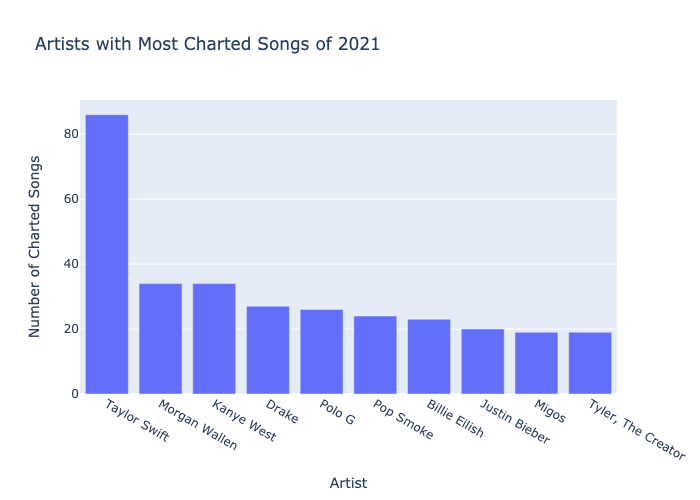
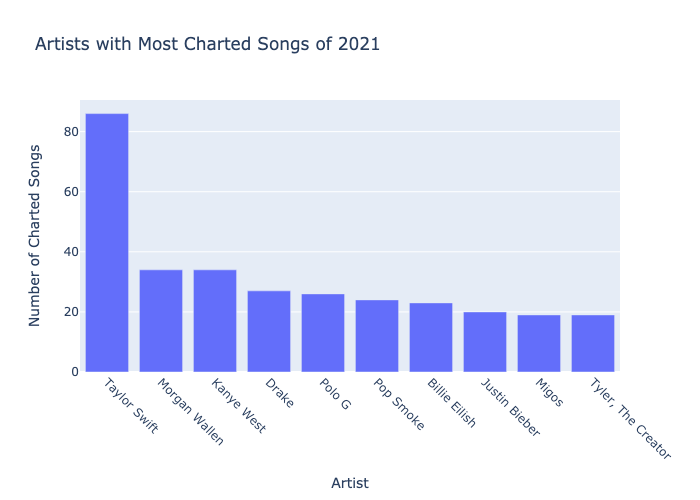
Update project

diff --git a/templates/index.html b/templates/index.html
@@ -18,7 +18,7 @@
             <h1 style="color: #ffffff">Spotify Songs Analysis</h1>
             <br>
             <nav class="navbar navbar-expand-lg navbar-light" style="background-color: #1db954">
-                <a class="navbar-brand" style="color: #ffffff">Sections of Project:</a>
+                <a class="navbar-brand" style="color: #ffffff">Menu (Project Sections):</a>
                 <button class="navbar-toggler" type="button" data-toggle="collapse" data-target="#navbarNavAltMarkup" aria-controls="navbarNavAltMarkup" aria-expanded="false" aria-label="Toggle navigation">
                   <span class="navbar-toggler-icon"></span>
                 </button>
@@ -36,7 +36,7 @@
 
     <div class="container" id="background">
         <h3><u>Project Background</u></h3>
-        <p>Spotify provides a Top 200s Chart for various countries on a daily basis, based on users' streams. This analysis focuses on songs from the <b>United States</b> that have ranked in the Top 200s chart, since January 2021 through November 12, 2021.</p>
+        <p>Spotify provides a Top 200s Chart for various countries on a daily basis, based on users' streams. This analysis focuses on songs from the <b>United States</b> that have ranked in the Top 200s chart, since <b>January 2021 through November 17, 2021</b>.</p>
         <p>Additional information regarding various song features are also available. Some of the features which have been included in this analysis are as follows:</p> 
             <li><b>Acousticness:</b> A confidence measure from 0.0-1.0 of whether a track is acoustic, with 1.0 representing the highest confidence</li>
             <li><b>Danceability:</b> A measure of how suitable a track is for dancing on a scale of 0.0-1.0, with 1.0 representing the most danceable</li>
@@ -49,7 +49,9 @@
             <li><b>Tempo:</b> Overall estimated tempo of track in beats per minute (BPM)</li>
             <li><b>Valence:</b> A measure of 0.0-1.0 describing the musical positiveness conveyed by the track, with 1.0 reperesenting the most positive</li>
         <br>
-        <p>Stream and ranking position data have been scraped from the Spotify charts, and the corresponding song features data has been pulled through the Spotify API request.</p>
+        <p>Stream and ranking position data have been scraped from the Spotify charts, and the corresponding song features data  (as outlined above) has been pulled through the Spotify API request.</p>
+        <p>Various insights have been analyzed through this data in the "Exploratory Analysis" section.</p>
+        <p>Additionally, a machine learning model has been built to predict whether a song can be predicted to rank within the Top 20 positions of the United States charts, depending on various musical attributes.</p>
         <br>
     </div>
 
@@ -58,33 +60,33 @@
         <div class="row p-4">
             <div class="card m-auto" style="width: 90%;">
                 <div class="card-body">
+                    <h4>What songs have accumulated the most streams in 2021 so far?</h4>
+                    <p>So far in 2021, Dua Lipa's song, "Levitating (feat. DaBaby)", has amassed the most streams of ~244M.</p>
                     <div id="chart1"></div>
-                    <p>asdf</p>
-                </div>
                 </div>
             </div>
             <br>
             <div class="card m-auto" style="width: 90%;">
                 <div class="card-body">
+                    <h4>Which artists have the most songs that have ranked in the Top 200s chart so far in 2021?</h4>
+                    <p>Taylor Swift has the most songs on the Top 200s chart so far in 2021, with 86 charted songs.</p>
                     <div id="chart2"></div>
-                    <p>asdf</p>
-                </div>
                 </div>
             </div>
             <br>
             <div class="card m-auto" style="width: 90%;">
                 <div class="card-body">
+                    <h4>Which artists have accumulated the most total streams in 2021 so far?</h4>
+                    <p>Drake has the most total streams across his charted songs in 2021, with ~1.0B streams.</p>
                     <div id="chart3"></div>
-                    <p>asdf</p>
-                </div>
                 </div>
             </div>
             <br>
             <div class="card m-auto" style="width: 90%;">
                 <div class="card-body">
+                    <h4>Which artists have the most #1 hits in 2021 so far?</h4>
+                    <p>Drake and J.Cole are tied with the highest number of #1 hits in 2021 so far, with three #1 hits each.</p>
                     <div id="chart4"></div>
-                    <p>asdf</p>
-                </div>
                 </div>
             </div>
             <br>

diff --git a/app.py b/app.py
@@ -30,7 +30,7 @@ def index():
         color='artist', 
         title='Top 10 Streamed Songs of 2021', 
         labels={'song':'Song', 'streams':'Number of Streams', 'artist':'Artist'}
-    ).update_xaxes(categoryorder='total descending')
+    ).update_xaxes(categoryorder='total descending', tickangle=45)
     # Encode chart as json
     graph1JSON = json.dumps(fig1, cls=plotly.utils.PlotlyJSONEncoder)
 
@@ -48,7 +48,7 @@ def index():
         y='count_of_charted_songs',
         title='Artists with Most Charted Songs of 2021',
         labels={'artist':'Artist', 'count_of_charted_songs':'Number of Charted Songs'}
-    )
+    ).update_xaxes(tickangle=45)
     # Encode chart as json
     graph2JSON = json.dumps(fig2, cls=plotly.utils.PlotlyJSONEncoder)
 
@@ -65,7 +65,7 @@ def index():
         y='streams',
         title='Artists with Most Streams',
         labels={'artist':'Artist', 'streams':'Total Number of Streams'}
-    )
+    ).update_xaxes(tickangle=45)
     # Encode chart as json
     graph3JSON = json.dumps(fig3, cls=plotly.utils.PlotlyJSONEncoder)
 
@@ -84,7 +84,7 @@ def index():
         y='count_of_number_ones',
         title='Artists with Most #1 Hits',
         labels={'artist':'Artist', 'count_of_number_ones':'Number of #1 Hits'}
-    ).update_yaxes(nticks=4)
+    ).update_yaxes(nticks=4).update_xaxes(tickangle=45)
     # Encode chart as json
     graph4JSON = json.dumps(fig4, cls=plotly.utils.PlotlyJSONEncoder)
 
